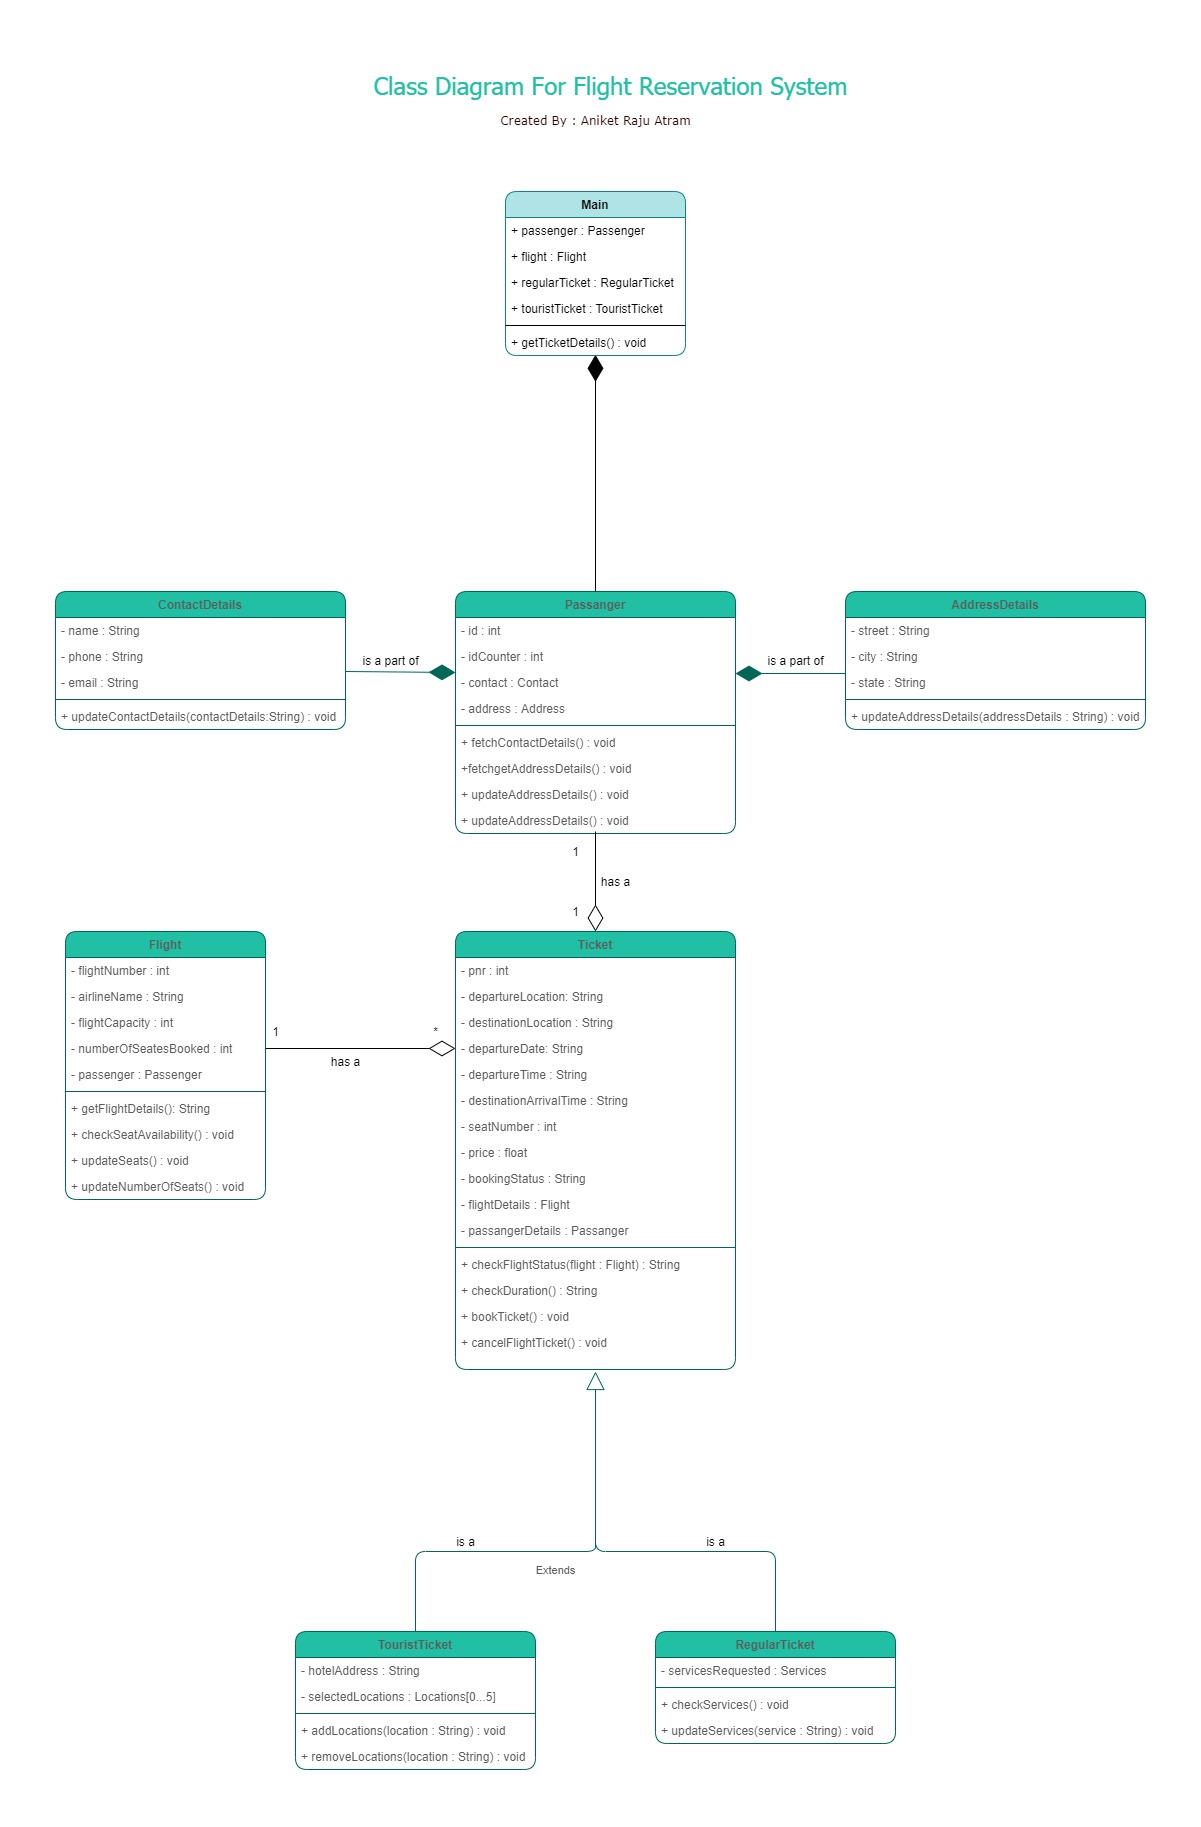
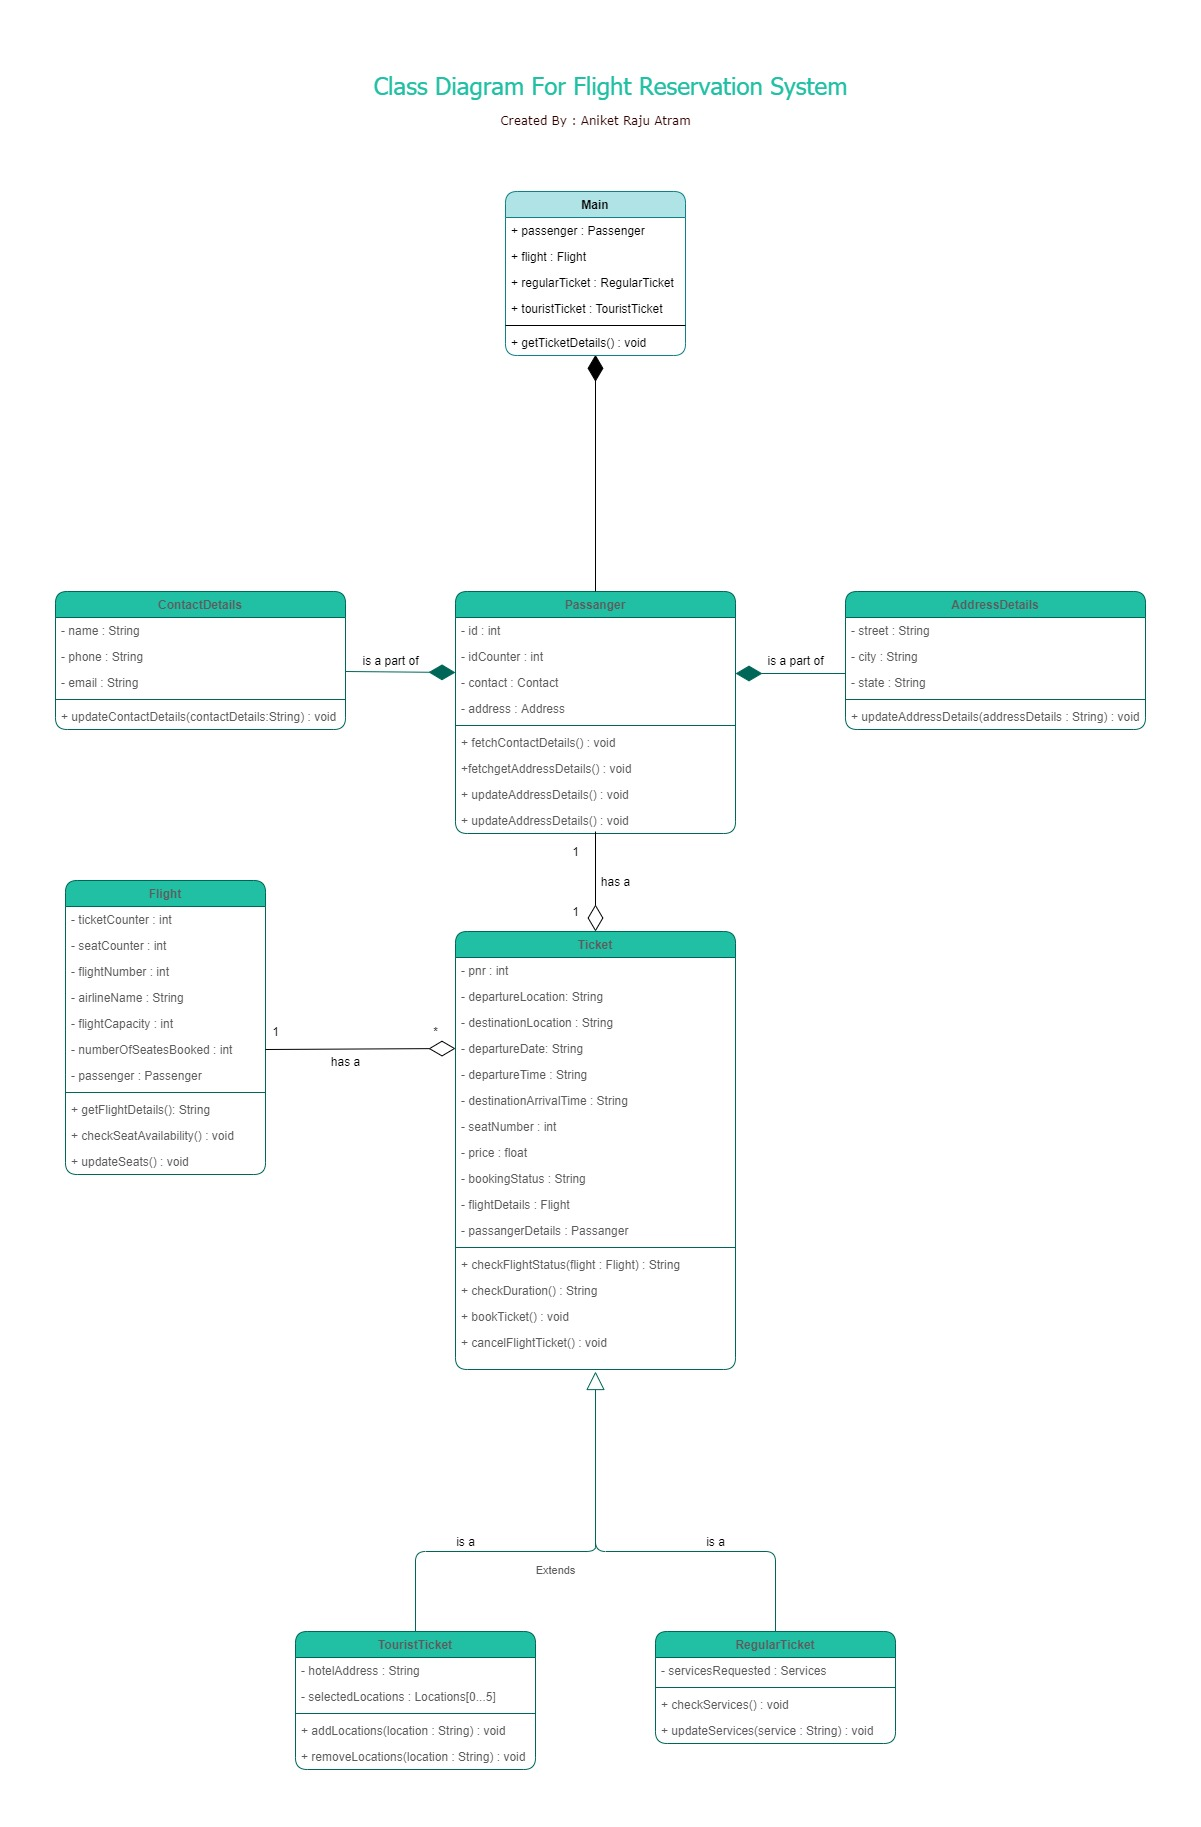
Fixed a bug in Flight class and Ticket class and updated Class Diagram

Changed region(s): [[0.0308, 0.468, 0.2465, 0.6552]]

diff --git a/src/Main.java b/src/Main.java
@@ -49,19 +49,39 @@ public class Main {
         servicesByAniket.add("Lunch");
 
         RegularTicket regularTicket = new RegularTicket(aniket, jetAirways, departureLocation, departureDestination, departureDate,departureTime, destinationArrivalTime, seatNumber,ticketPrice,servicesByAniket);
+//        System.out.println();
+//        System.out.println("Services availed are:");
+//        regularTicket.getServicesAvailed();
+//        System.out.println();
+//        System.out.println(regularTicket.checkFlightDuration());
+//        System.out.println();
+//        regularTicket.bookTicket();
+//        System.out.println();
+//        System.out.println("::Booking Details::");
+//        System.out.println(jetAirways.getFlightDetails());
+//        System.out.println();
+//        System.out.println(regularTicket.getBookingStatus());
+//        System.out.println(regularTicket.getPnrNumber());
+
+
+        // Aniket is now booking tourist ticket
+
+        ArrayList<String> selectedLocations = new ArrayList<>();
+        // He selected these locations
+        selectedLocations.add("Vagatore");
+        selectedLocations.add("Anjuna Beach");
+        selectedLocations.add("Casino");
+        // This is his hotel address
+        String hotelAddr = "Somewhere in Goa.";
+
+        // Now he books TouristTicket
+        TouristTicket touristTicket = new TouristTicket(aniket, jetAirways, departureLocation, departureDestination, departureDate,departureTime, destinationArrivalTime, seatNumber,ticketPrice,hotelAddr,selectedLocations);
         System.out.println();
-        System.out.println("Services availed are:");
-        regularTicket.getServicesAvailed();
+        touristTicket.bookTicket();
         System.out.println();
-        System.out.println(regularTicket.checkFlightDuration());
-        System.out.println();
-        regularTicket.bookTicket();
-        System.out.println();
-        System.out.println("::Booking Details::");
         System.out.println(jetAirways.getFlightDetails());
-        System.out.println();
-        System.out.println(regularTicket.getBookingStatus());
-        System.out.println(regularTicket.getPnrNumber());
+
+
 
 
 

diff --git a/src/Flight.java b/src/Flight.java
@@ -1,10 +1,11 @@
 public class Flight {
 
     // TODO : Add attributes
-
+    private static int ticketCounter =1;
+    private static int seatsCounter = 200;
     private String flightNumber; // A unique flight number given to each flight starting with two letters and three numbers
     private String airlineName; // Name of the airlines
-    private int flightCapacity = 200; // The seat capacity of the flight initialized to 200 for the sake of simplicity
+    private int flightCapacity; // The seat capacity of the flight initialized to 200 for the sake of simplicity
     private boolean isAvailable = true; // Seats are always available unless seats booked equals total capacity
     private int numberOfSeatsBooked =0; // The number of seats booked
     private Passenger passenger; // The instance of passenger for whom the seat is booked
@@ -13,6 +14,8 @@ public class Flight {
     // TODO : Create a constructor
 
     public Flight(String flightNumber, String airlineName, Passenger passenger) {
+        this.flightCapacity = seatsCounter;
+        this.numberOfSeatsBooked = ticketCounter;
         this.flightNumber = flightNumber;
         this.airlineName = airlineName;
         this.passenger = passenger;
@@ -24,7 +27,7 @@ public class Flight {
     // Get the details of the flight booked
     public String getFlightDetails(){
 
-        return "Airline: "+airlineName+" Flight Number: "+flightNumber+" Number of seats booked: "+numberOfSeatsBooked;
+        return "Airline: "+this.airlineName+" Flight Number: "+this.flightNumber+" Number of seats booked: "+this.numberOfSeatsBooked;
 
     }// End of getFlightDetails method
 
@@ -48,8 +51,10 @@ public class Flight {
 
     // update the number of seats in flight
     public void updateSeats(){
-        this.numberOfSeatsBooked += 1;
-        this.flightCapacity -=1;
+
+        this.numberOfSeatsBooked +=1;
+        this.flightCapacity -= this.numberOfSeatsBooked;
+
     }
 
     // TODO: Add getters and setters
